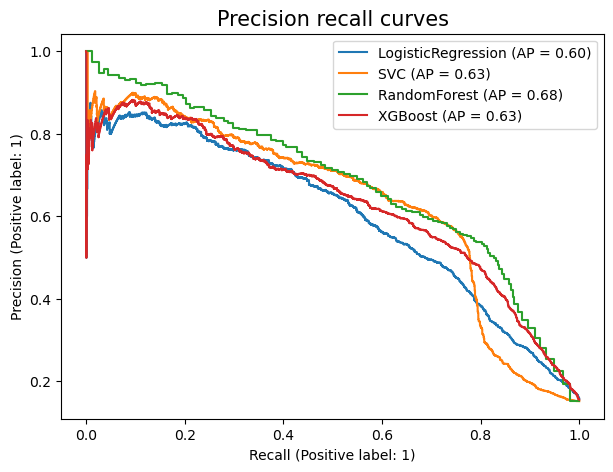
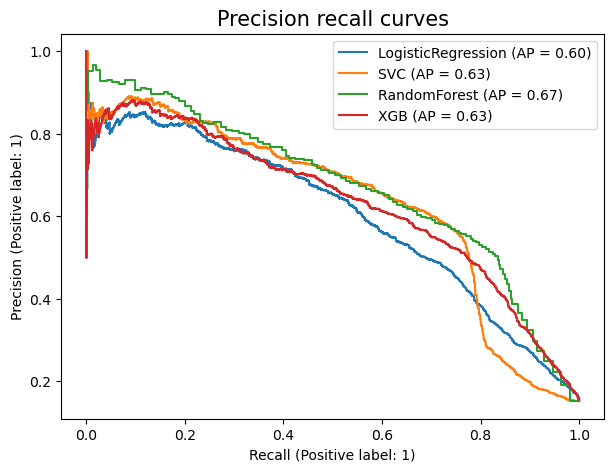
Add functionality to extract best hyperparameter results

diff --git a/src/tune_model.py b/src/tune_model.py
@@ -26,78 +26,10 @@ from model_selection import read_cleaned_data, get_X_y
 from sklearn.compose import make_column_transformer
 from sklearn.preprocessing import OneHotEncoder, StandardScaler
 from sklearn.pipeline import make_pipeline
+from model_selection import get_transformer, get_feat_type
 
 
 opt = docopt(__doc__)
-
-
-def get_feat_type():
-    """Gets the feature types
-
-    Returns
-    -------
-    dict
-        Dictionary of feature types
-    """
-    # Dictionary of features type for transformation
-    feat_type = {
-        "numeric": [
-            "Administrative",
-            "Administrative_Duration",
-            "Informational",
-            "Informational_Duration",
-            "ProductRelated",
-            "ProductRelated_Duration",
-            "BounceRates",
-            "ExitRates",
-            "PageValues",
-            "SpecialDay",
-            "total_page_view",
-            "total_duration",
-            "product_view_percent",
-            "product_dur_percent",
-            "ave_product_duration",
-            "page_values_x_bounce_rate",
-            "page_values_per_product_view",
-            "page_values_per_product_dur",
-        ],
-        "category": [
-            "OperatingSystems",
-            "Browser",
-            "Region",
-            "TrafficType",
-            "VisitorType",
-        ],
-        "binary": ["Weekend"],
-        "drop": ["Month"],
-        "target": ["Revenue"],
-    }
-
-    return feat_type
-
-
-def get_transformer():
-    """Get Column Transformer for feature transformation
-
-    Returns
-    -------
-    ColumnTransformer
-        Returns a ColumnTransformer object
-    """
-    feat_type = get_feat_type()
-
-    ct = make_column_transformer(
-        (StandardScaler(), feat_type["numeric"]),
-        (OneHotEncoder(sparse=False, handle_unknown="ignore"), feat_type["category"]),
-        (
-            OneHotEncoder(sparse=False, drop="if_binary", handle_unknown="ignore"),
-            feat_type["binary"],
-        ),
-        ("drop", feat_type["drop"]),
-        remainder="passthrough",
-    )
-
-    return ct
 
 
 def create_model_and_params():
@@ -253,12 +185,29 @@ def main(data_path, output_path):
     random_search = perform_random_search(X_train, y_train, model, search_space)
     results = get_search_results(random_search)
 
+    best_hyper_params = results["best_params"]
+
+    # cleans up for indices in dataframe
+    index = []
+    for key in best_hyper_params.keys():
+        index.append(key[24:])
+
+    best_hyper_params_df = pd.DataFrame(
+        data=best_hyper_params.values(),
+        index=index,
+        columns=["value"],
+    )
+
+    best_recall = results["best_score"]
+    print(f"-- Search complete, best recall score: {best_recall}")
+
     print("-- Getting final predictions")
     cm_plot, cr_df = get_final_predictions(
         results["best_estimator"], X_train, y_train, X_test, y_test
     )
 
     print("-- Output results and images")
+    best_hyper_params_df.to_csv((f"{output_path}best_hyperparameters.csv"))
     cr_df.to_csv(f"{output_path}classification_report.csv")
     cm_plot.savefig(f"{output_path}final_cm.png", bbox_inches="tight")
 

diff --git a/src/model_selection.py b/src/model_selection.py
@@ -160,13 +160,13 @@ def get_models():
     ct = get_transformer()
 
     models = {
-        "DummyClassifier": make_pipeline(ct, DummyClassifier()),
+        "Dummy": make_pipeline(ct, DummyClassifier()),
         "LogisticRegression": make_pipeline(
             ct, LogisticRegression(max_iter=1500)
         ),  # helps convergence
         "SVC": make_pipeline(ct, SVC(probability=True)),
         "RandomForest": make_pipeline(ct, RandomForestClassifier()),
-        "XGBoost": make_pipeline(
+        "XGB": make_pipeline(
             ct, xgb.XGBClassifier(use_label_encoder=False, eval_metric="logloss")
         ),
     }
@@ -210,7 +210,7 @@ def cross_validate_models(
     X_train,
     y_train,
     cv=5,
-    metrics=["accuracy", "precision", "recall", "f1", "average_precision"],
+    metrics=["accuracy", "precision", "recall", "f1"],
 ):
     """Performs cross validation for a set of models and returns results.
 
@@ -272,7 +272,7 @@ def get_confusion_matrices(models, X_train, y_train):
 
     for (name, model), ax in zip(models.items(), axes):
 
-        if name == "DummyClassifier":
+        if name == "Dummy":
             continue
 
         else:
@@ -313,7 +313,7 @@ def get_precision_recall_curves(models, X_train, y_train):
 
     for name, model in models.items():
 
-        if name == "DummyClassifier":
+        if name == "Dummy":
             continue
 
         else:
